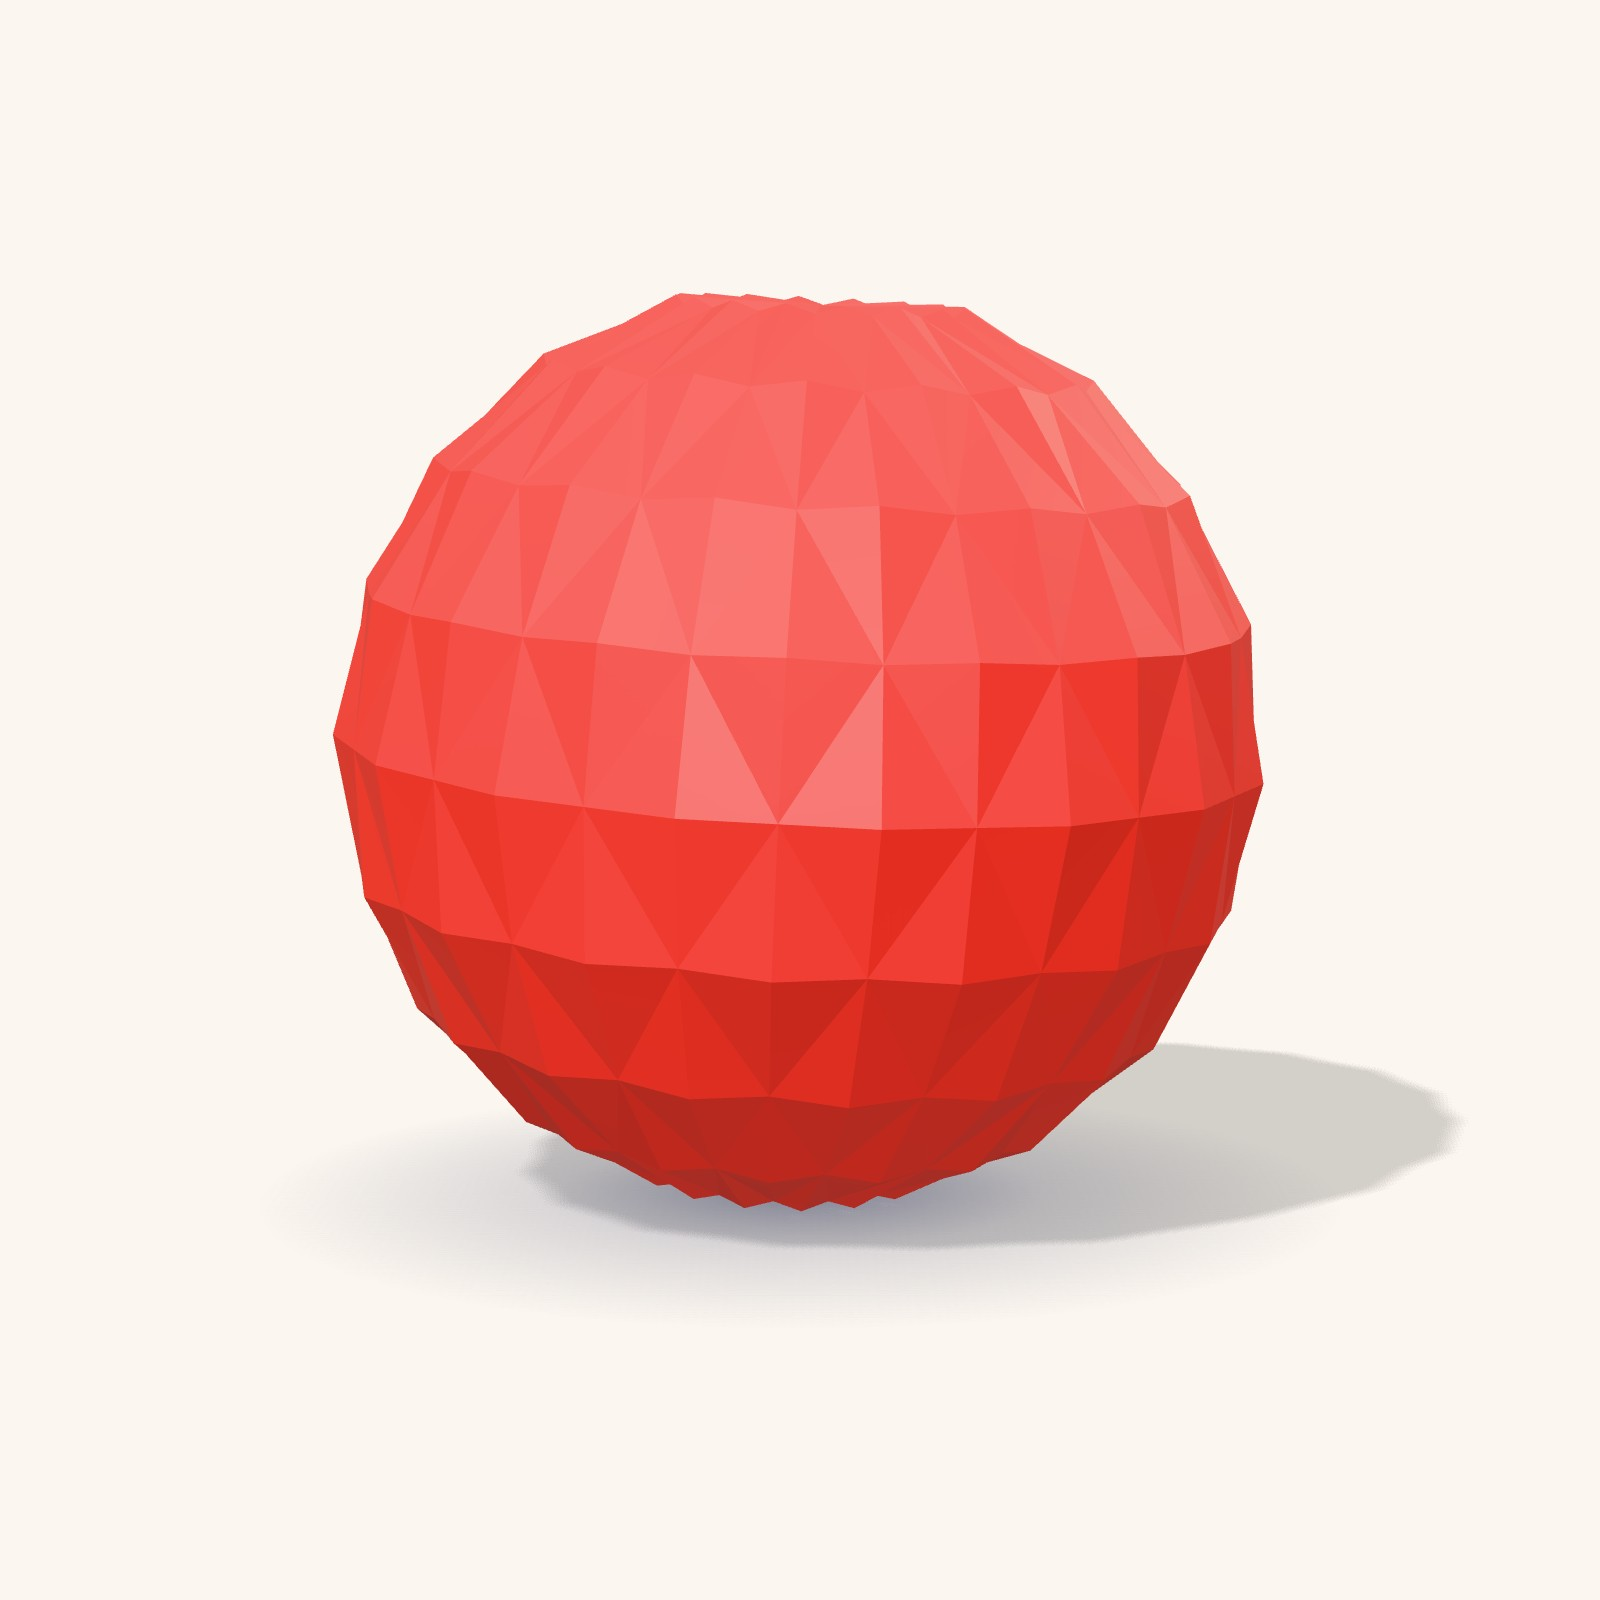
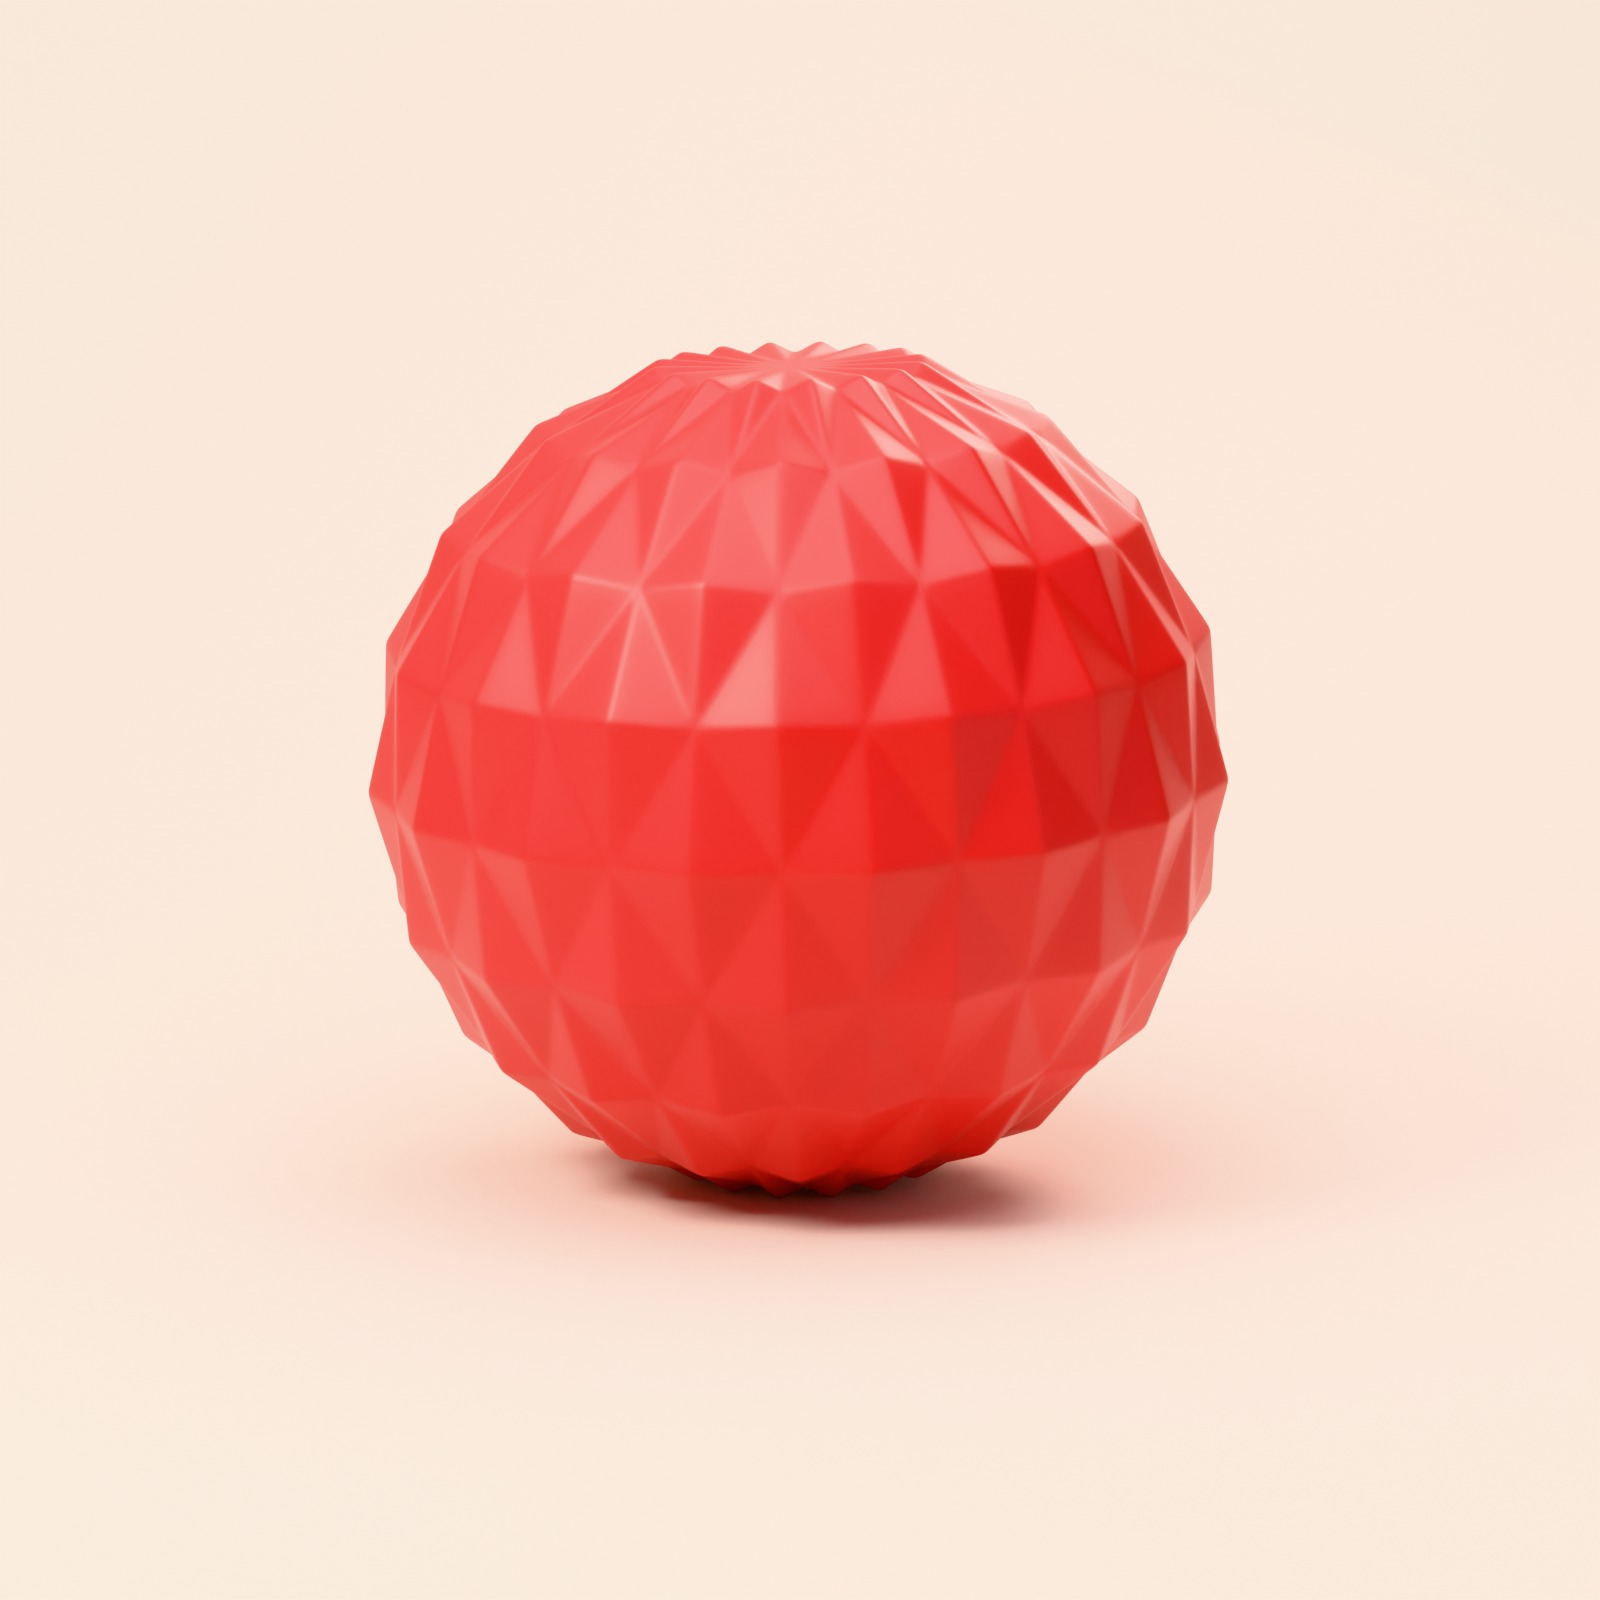
Image produit principale en rendu photo-réaliste (Blender)
Claude-Session: https://claude.ai/code/session_01Bm6fKZGHWv2SxfHV2PWU37

Changed region(s): [[0.125, 0.1562, 1.0, 0.8125], [0.375, 0.3125, 0.4062, 0.3438]]

diff --git a/shopify-kit/photos/source/ball.py b/shopify-kit/photos/source/ball.py
@@ -1,0 +1,259 @@
+"""Rendu photo-réaliste de la balle à friandises (Blender / Cycles).
+
+Usage : python ball.py <scene> <sortie.png> [samples] [taille]
+scene = main (fond clair), kibbles (fond jaune + croquettes), size (fond blanc)
+"""
+import math
+import random
+import sys
+
+import bpy  # noqa: I001 (bpy doit être importé avant bmesh)
+import bmesh
+from mathutils import Vector
+
+SCENE = sys.argv[1] if len(sys.argv) > 1 else "main"
+OUT = sys.argv[2] if len(sys.argv) > 2 else f"/tmp/{SCENE}.png"
+SAMPLES = int(sys.argv[3]) if len(sys.argv) > 3 else 96
+RES = int(sys.argv[4]) if len(sys.argv) > 4 else 1600
+
+bpy.ops.wm.read_factory_settings(use_empty=True)
+scene = bpy.context.scene
+
+
+def srgb(h):
+    h = h.lstrip("#")
+    c = [int(h[i : i + 2], 16) / 255 for i in (0, 2, 4)]
+    return tuple(x / 12.92 if x <= 0.04045 else ((x + 0.055) / 1.055) ** 2.4 for x in c) + (1.0,)
+
+
+BACKDROP = {"main": "#f4ece2", "kibbles": "#f7b733", "size": "#f6f4f1"}[SCENE]
+
+# ------------------------------------------------------------ Balle
+def faceted_ball(rings=9, per_ring=16, raise_=1.034):
+    """Diamants en relief : chaque losange est une petite pyramide."""
+    bm = bmesh.new()
+    ring, offs = [], []
+    for k in range(rings):
+        lat = -math.pi / 2 + (k + 1) * math.pi / (rings + 1)
+        off = (k % 2) * 0.5
+        offs.append(off)
+        ring.append(
+            [
+                Vector((math.cos(lat) * math.cos(a), math.cos(lat) * math.sin(a), math.sin(lat)))
+                for a in ((i + off) / per_ring * 2 * math.pi for i in range(per_ring))
+            ]
+        )
+    south, north = Vector((0, 0, -0.965)), Vector((0, 0, 0.965))
+    cache = {}
+
+    def vert(p):
+        key = (round(p.x, 5), round(p.y, 5), round(p.z, 5))
+        if key not in cache:
+            cache[key] = bm.verts.new(p)
+        return cache[key]
+
+    def between(k, i, dk):
+        n = k + dk
+        if n < 0:
+            return south
+        if n >= rings:
+            return north
+        j = round(i + offs[k] + 0.5 - offs[n]) % per_ring
+        return ring[n][j]
+
+    for k in range(rings):
+        for i in range(per_ring):
+            L, R = ring[k][i], ring[k][(i + 1) % per_ring]
+            T, B = between(k, i, 1), between(k, i, -1)
+            C = (L + R + T + B).normalized() * raise_
+            for a, b in ((L, T), (T, R), (R, B), (B, L)):
+                bm.faces.new((vert(C), vert(a), vert(b)))
+    bmesh.ops.remove_doubles(bm, verts=bm.verts, dist=1e-5)
+    bmesh.ops.recalc_face_normals(bm, faces=bm.faces)
+    me = bpy.data.meshes.new("ball")
+    bm.to_mesh(me)
+    ob = bpy.data.objects.new("ball", me)
+    scene.collection.objects.link(ob)
+    # Arêtes adoucies comme un caoutchouc moulé.
+    bev = ob.modifiers.new("bevel", "BEVEL")
+    bev.width = 0.014
+    bev.segments = 3
+    bev.limit_method = "ANGLE"
+    bev.angle_limit = math.radians(5)
+    sub = ob.modifiers.new("sub", "SUBSURF")
+    sub.levels = sub.render_levels = 1
+    for p in me.polygons:
+        p.use_smooth = True
+    return ob
+
+
+ball = faceted_ball()
+ball.location = (0, 0, 1)
+ball.rotation_euler = (math.radians(4), math.radians(-3), math.radians(20))
+
+rubber = bpy.data.materials.new("rubber")
+rubber.use_nodes = True
+nt = rubber.node_tree
+bsdf = nt.nodes["Principled BSDF"]
+bsdf.inputs["Base Color"].default_value = srgb("#c4140f")
+bsdf.inputs["Roughness"].default_value = 0.5
+bsdf.inputs["Subsurface Weight"].default_value = 0.03
+bsdf.inputs["Subsurface Radius"].default_value = (0.6, 0.08, 0.05)
+bsdf.inputs["Subsurface Scale"].default_value = 0.08
+bsdf.inputs["Coat Weight"].default_value = 0.12
+bsdf.inputs["Coat Roughness"].default_value = 0.25
+# Grain très fin de la surface.
+noise = nt.nodes.new("ShaderNodeTexNoise")
+noise.inputs["Scale"].default_value = 260
+noise.inputs["Detail"].default_value = 6
+bump = nt.nodes.new("ShaderNodeBump")
+bump.inputs["Strength"].default_value = 0.06
+bump.inputs["Distance"].default_value = 0.002
+nt.links.new(noise.outputs["Fac"], bump.inputs["Height"])
+nt.links.new(bump.outputs["Normal"], bsdf.inputs["Normal"])
+ball.data.materials.append(rubber)
+
+# -------------------------------------------------------- Croquettes
+def kibble_material():
+    m = bpy.data.materials.new("kibble")
+    m.use_nodes = True
+    n = m.node_tree
+    b = n.nodes["Principled BSDF"]
+    b.inputs["Roughness"].default_value = 0.8
+    tex = n.nodes.new("ShaderNodeTexNoise")
+    tex.inputs["Scale"].default_value = 40
+    tex.inputs["Detail"].default_value = 8
+    ramp = n.nodes.new("ShaderNodeValToRGB")
+    ramp.color_ramp.elements[0].color = srgb("#5a3014")
+    ramp.color_ramp.elements[1].color = srgb("#9a5a26")
+    n.links.new(tex.outputs["Fac"], ramp.inputs["Fac"])
+    n.links.new(ramp.outputs["Color"], b.inputs["Base Color"])
+    bp = n.nodes.new("ShaderNodeBump")
+    bp.inputs["Strength"].default_value = 0.5
+    bp.inputs["Distance"].default_value = 0.01
+    n.links.new(tex.outputs["Fac"], bp.inputs["Height"])
+    n.links.new(bp.outputs["Normal"], b.inputs["Normal"])
+    return m
+
+
+if SCENE == "kibbles":
+    km = kibble_material()
+    rnd = random.Random(7)
+    spots = [(-1.25, -0.55), (-1.05, -1.05), (-1.55, -1.25), (-0.55, -1.5), (1.2, -0.7),
+             (1.5, -0.2), (0.85, -1.3), (1.3, -1.45), (0.1, -1.75)]
+    for x, y in spots:
+        bpy.ops.mesh.primitive_cylinder_add(vertices=24, radius=1, depth=1)
+        k = bpy.context.object
+        r = 0.13 + rnd.random() * 0.03
+        k.scale = (r * (0.9 + rnd.random() * 0.25), r, 0.085 + rnd.random() * 0.025)
+        k.location = (x + rnd.uniform(-0.1, 0.1), y, k.scale.z * 0.45)
+        k.rotation_euler = (rnd.uniform(-0.15, 0.15), rnd.uniform(-0.15, 0.15), rnd.uniform(0, math.pi))
+        bv = k.modifiers.new("b", "BEVEL")
+        bv.width = 0.35
+        bv.segments = 4
+        sd = k.modifiers.new("s", "SUBSURF")
+        sd.levels = sd.render_levels = 2
+        disp_tex = bpy.data.textures.new("kd", "CLOUDS")
+        disp_tex.noise_scale = 0.6
+        dm = k.modifiers.new("d", "DISPLACE")
+        dm.texture = disp_tex
+        dm.strength = 0.08
+        bpy.ops.object.shade_smooth()
+        k.data.materials.append(km)
+
+# ------------------------------------------------- Fond studio courbé
+bpy.ops.mesh.primitive_plane_add(size=1)
+bd = bpy.context.object
+me = bd.data
+bm = bmesh.new()
+# Sol + mur reliés par un quart de cercle (cyclo), mur derrière la balle.
+R = 5.0
+pts = [(-30 + i * (32 / 20), 0.0) for i in range(21)]  # sol, de y=-30 à y=2
+pts += [(2 + R * math.cos(a), R + R * math.sin(a)) for a in (-math.pi / 2 + (i / 24) * (math.pi / 2) for i in range(1, 25))]
+pts += [(2 + R, R + 3 * i) for i in range(1, 6)]  # mur
+cols = [(bm.verts.new((-30, y, z)), bm.verts.new((30, y, z))) for y, z in pts]
+for a_, b_ in zip(cols, cols[1:]):
+    bm.faces.new((a_[0], a_[1], b_[1], b_[0]))
+bm.to_mesh(me)
+bm.free()
+for p in me.polygons:
+    p.use_smooth = True
+bmat = bpy.data.materials.new("backdrop")
+bmat.use_nodes = True
+bb = bmat.node_tree.nodes["Principled BSDF"]
+bb.inputs["Base Color"].default_value = srgb(BACKDROP)
+bb.inputs["Roughness"].default_value = 0.9
+me.materials.append(bmat)
+
+# ----------------------------------------------------------- Lumière
+def area(name, loc, size, energy, color="#ffffff", target=(0, 0, 0.9)):
+    l = bpy.data.lights.new(name, "AREA")
+    l.shape = "DISK"
+    l.size = size
+    l.energy = energy
+    l.color = srgb(color)[:3]
+    o = bpy.data.objects.new(name, l)
+    o.location = loc
+    d = Vector(target) - Vector(loc)
+    o.rotation_euler = d.to_track_quat("-Z", "Y").to_euler()
+    scene.collection.objects.link(o)
+
+
+area("key", (-4.5, -4.0, 6.0), 3.0, 750, "#fff3e6")
+area("fill", (5.5, -3.5, 2.5), 6.0, 70, "#f2f5ff")
+area("rim", (2.5, 4.5, 4.5), 3.0, 450, "#ffe2d4")
+area("top", (0, 0, 8), 4.0, 120)
+area("wall", (0, -2.0, 9.0), 10.0, 900, "#ffffff", target=(0, 7, 3))
+world = bpy.data.worlds.new("w")
+world.use_nodes = True
+world.node_tree.nodes["Background"].inputs["Color"].default_value = srgb("#ffffff")
+world.node_tree.nodes["Background"].inputs["Strength"].default_value = 0.08
+scene.world = world
+
+# ------------------------------------------------------------ Caméra
+cam_data = bpy.data.cameras.new("cam")
+cam_data.lens = 85
+cam = bpy.data.objects.new("cam", cam_data)
+scene.collection.objects.link(cam)
+scene.camera = cam
+if SCENE == "kibbles":
+    cam.location = (0, -10.5, 3.4)
+    target = Vector((0, -0.5, 0.75))
+    cam_data.lens = 85
+    cam_data.dof.use_dof = True
+    cam_data.dof.focus_object = ball
+    cam_data.dof.aperture_fstop = 2.8
+elif SCENE == "size":
+    cam.location = (0, -12.5, 2.0)
+    target = Vector((0, 0, 0.75))
+    cam_data.lens = 100
+else:
+    cam.location = (0, -10.5, 2.6)
+    target = Vector((0, 0, 0.92))
+    cam_data.lens = 100
+cam.rotation_euler = (target - cam.location).to_track_quat("-Z", "Y").to_euler()
+
+# ------------------------------------------------------------- Rendu
+scene.render.engine = "CYCLES"
+scene.cycles.device = "CPU"
+scene.cycles.samples = SAMPLES
+scene.cycles.use_denoising = True
+scene.render.resolution_x = scene.render.resolution_y = RES
+scene.render.film_transparent = False
+scene.view_settings.view_transform = "Khronos PBR Neutral"
+scene.view_settings.look = "None"
+scene.view_settings.exposure = 0.0
+scene.render.image_settings.file_format = "PNG"
+scene.render.filepath = OUT
+bpy.ops.render.render(write_still=True)
+
+# Position à l'écran des bords gauche/droit de la balle (pour la cote 8 cm).
+from bpy_extras.object_utils import world_to_camera_view
+
+bpy.context.view_layer.update()
+xs = []
+for x in (-1.02, 1.02):
+    co = world_to_camera_view(scene, cam, Vector((x, 0, 1)))
+    xs.append(co.x * RES)
+ys = world_to_camera_view(scene, cam, Vector((0, 0, 0))).y
+print("BALL_PX", xs[0], xs[1], "GROUND_Y", (1 - ys) * RES)

diff --git a/shopify-kit/photos/source/ruler.py b/shopify-kit/photos/source/ruler.py
@@ -1,0 +1,16 @@
+"""Ajoute la cote « 8 cm » sous la balle. Usage : ruler.py in.png out.jpg x_gauche x_droite y_sol"""
+import sys
+from PIL import Image, ImageDraw, ImageFont
+
+src, out, xl, xr, ground = sys.argv[1], sys.argv[2], *map(float, sys.argv[3:6])
+im = Image.open(src).convert("RGB")
+d = ImageDraw.Draw(im)
+ink = (20, 22, 43)
+y = ground + 120
+w = 7
+d.line([(xl, y), (xr, y)], fill=ink, width=w)
+for x in (xl, xr):
+    d.line([(x, y - 28), (x, y + 28)], fill=ink, width=w)
+font = ImageFont.truetype(sys.path[0] + "/bricolage-800.ttf", 92)
+d.text(((xl + xr) / 2, y + 44), "8 cm", font=font, fill=ink, anchor="mt")
+im.save(out, quality=92, optimize=True)
